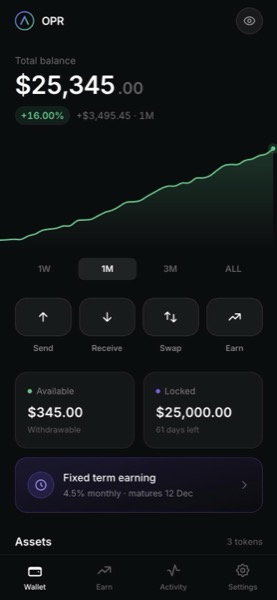
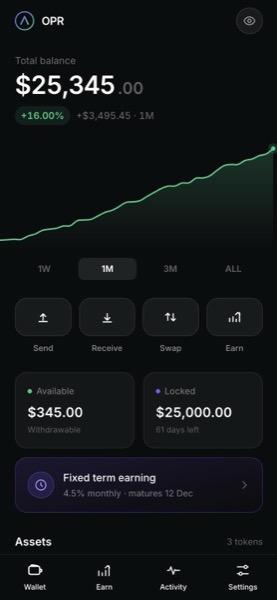
Redesign lock screen, six digit passcode, better iconography
Lock screen: ambient brand glow, glowing logo, round keypad keys, a
Face ID shortcut and a Forgot passcode link. Passcode is now six
digits and is no longer printed on screen.

Icons: tokens render as solid brand coloured marks with a highlight
and soft glow, Ethereum using its diamond instead of a glyph. Nav and
quick action icons redrawn to be more distinct, with chart style marks
for Earn.

diff --git a/components/Lock.tsx b/components/Lock.tsx
@@ -1,7 +1,7 @@
 import React, { useEffect, useState } from 'react';
 import { Logo } from './Ui';
 
-const PASSCODE = '1304';
+const PASSCODE = '110801';
 
 const Lock: React.FC<{ onUnlock: () => void }> = ({ onUnlock }) => {
   const [code, setCode] = useState('');
@@ -10,14 +10,14 @@ const Lock: React.FC<{ onUnlock: () => void }> = ({ onUnlock }) => {
   useEffect(() => {
     if (code.length < PASSCODE.length) return;
     if (code === PASSCODE) {
-      const t = setTimeout(onUnlock, 160);
+      const t = setTimeout(onUnlock, 180);
       return () => clearTimeout(t);
     }
     setError(true);
     const t = setTimeout(() => {
       setError(false);
       setCode('');
-    }, 620);
+    }, 640);
     return () => clearTimeout(t);
   }, [code, onUnlock]);
 
@@ -27,55 +27,78 @@ const Lock: React.FC<{ onUnlock: () => void }> = ({ onUnlock }) => {
     setCode((c) => (c.length >= PASSCODE.length ? c : c + k));
   };
 
+  const filled = code.length;
+
   return (
-    <div className="min-h-screen bg-[#0B0C0F] flex flex-col max-w-md mx-auto">
-      <div className="flex-1 flex flex-col items-center justify-center px-8">
-        <Logo size={46} />
-        <h1 className="text-[20px] font-semibold text-white mt-5 tracking-tight">OPR Wallet</h1>
+    <div className="h-[100dvh] bg-[#0B0C0F] flex flex-col max-w-md mx-auto relative overflow-hidden">
+      {/* Ambient brand glow */}
+      <div
+        className="pointer-events-none absolute -top-32 left-1/2 -translate-x-1/2 w-[340px] h-[340px] rounded-full opacity-[0.18] blur-[90px]"
+        style={{ background: 'radial-gradient(circle, #7C5CFF 0%, #16C784 65%, transparent 100%)' }}
+      />
 
-        <p className="text-[13px] text-white/40 mt-8">Enter passcode</p>
+      <div className="flex-1 flex flex-col items-center justify-center px-8 relative z-10">
+        <div className="relative">
+          <div className="absolute inset-0 blur-xl opacity-40">
+            <Logo size={56} />
+          </div>
+          <Logo size={56} />
+        </div>
 
-        <div className={`flex gap-3.5 mt-5 ${error ? 'animate-shake' : ''}`}>
+        <h1 className="text-[22px] font-semibold text-white mt-6 tracking-tight">OPR Wallet</h1>
+        <p className="text-[13px] text-white/35 mt-1.5">
+          {error ? 'Incorrect passcode' : 'Enter your passcode'}
+        </p>
+
+        <div className={`flex gap-4 mt-9 ${error ? 'animate-shake' : ''}`}>
           {Array.from({ length: PASSCODE.length }).map((_, i) => (
             <span
               key={i}
-              className={`w-3 h-3 rounded-full transition-all duration-150 ${
+              className={`rounded-full transition-all duration-200 ${
                 error
-                  ? 'bg-[#EA3943]'
-                  : i < code.length
-                  ? 'bg-white scale-110'
-                  : 'bg-white/15'
+                  ? 'w-[11px] h-[11px] bg-[#EA3943]'
+                  : i < filled
+                  ? 'w-[11px] h-[11px] bg-white'
+                  : 'w-[11px] h-[11px] bg-white/[0.14]'
               }`}
+              style={i < filled && !error ? { boxShadow: '0 0 12px rgba(255,255,255,0.45)' } : undefined}
             />
           ))}
         </div>
-        <p className={`text-[12px] mt-4 h-4 ${error ? 'text-[#EA3943]' : 'text-white/25'}`}>
-          {error ? 'Incorrect passcode' : 'Passcode 1304'}
-        </p>
       </div>
 
-      <div className="px-8 pb-10">
-        <div className="grid grid-cols-3 gap-2">
-          {['1', '2', '3', '4', '5', '6', '7', '8', '9', '', '0', 'del'].map((k, i) =>
-            k === '' ? (
-              <div key={i} />
-            ) : (
-              <button
-                key={i}
-                onClick={() => press(k)}
-                className="h-16 rounded-2xl text-[24px] font-medium text-white active:bg-white/[0.08] transition-colors flex items-center justify-center"
-              >
-                {k === 'del' ? (
-                  <svg className="w-6 h-6" fill="none" stroke="currentColor" viewBox="0 0 24 24" strokeWidth={1.8}>
-                    <path strokeLinecap="round" strokeLinejoin="round" d="M12 14l2-2m0 0l2-2m-2 2l-2-2m2 2l2 2M3 12l6.414-6.414A2 2 0 0110.828 5H19a2 2 0 012 2v10a2 2 0 01-2 2h-8.172a2 2 0 01-1.414-.586L3 12z" />
-                  </svg>
-                ) : (
-                  k
-                )}
-              </button>
-            ),
-          )}
+      <div className="px-10 pb-12 relative z-10">
+        <div className="grid grid-cols-3 gap-x-6 gap-y-3">
+          {['1', '2', '3', '4', '5', '6', '7', '8', '9', 'bio', '0', 'del'].map((k, i) => (
+            <button
+              key={i}
+              onClick={() => (k === 'bio' ? onUnlock() : press(k))}
+              aria-label={k === 'bio' ? 'Unlock with Face ID' : k === 'del' ? 'Delete' : k}
+              className={`h-[68px] rounded-full flex items-center justify-center transition-all active:scale-90 ${
+                k === 'bio' || k === 'del'
+                  ? 'text-white/45 active:bg-white/[0.06]'
+                  : 'text-[26px] font-light text-white bg-white/[0.045] active:bg-white/[0.12]'
+              }`}
+            >
+              {k === 'bio' ? (
+                <svg className="w-[26px] h-[26px]" fill="none" stroke="currentColor" viewBox="0 0 24 24" strokeWidth={1.6}>
+                  <path strokeLinecap="round" strokeLinejoin="round" d="M4 8V6a2 2 0 012-2h2M16 4h2a2 2 0 012 2v2M20 16v2a2 2 0 01-2 2h-2M8 20H6a2 2 0 01-2-2v-2" />
+                  <path strokeLinecap="round" d="M9 9.5a3.2 3.2 0 016 0v1.2M9 12.3V13a3 3 0 003 3M15 13.5a3 3 0 01-.4 1.5M12 9.8v3.4" />
+                </svg>
+              ) : k === 'del' ? (
+                <svg className="w-[26px] h-[26px]" fill="none" stroke="currentColor" viewBox="0 0 24 24" strokeWidth={1.6}>
+                  <path strokeLinecap="round" strokeLinejoin="round" d="M12 14l2-2m0 0l2-2m-2 2l-2-2m2 2l2 2M3 12l6.414-6.414A2 2 0 0110.828 5H19a2 2 0 012 2v10a2 2 0 01-2 2h-8.172a2 2 0 01-1.414-.586L3 12z" />
+                </svg>
+              ) : (
+                k
+              )}
+            </button>
+          ))}
         </div>
+
+        <button className="w-full text-center text-[13px] font-medium text-white/30 mt-7 active:text-white/50 transition-colors">
+          Forgot passcode?
+        </button>
       </div>
     </div>
   );

diff --git a/components/BottomNav.tsx b/components/BottomNav.tsx
@@ -6,19 +6,31 @@ const ITEMS: { screen: Screen; label: string; icon: React.ReactNode }[] = [
     screen: 'wallet',
     label: 'Wallet',
     icon: (
-      <path strokeLinecap="round" strokeLinejoin="round" d="M3 10h18M3 10a2 2 0 012-2h14a2 2 0 012 2M3 10v8a2 2 0 002 2h14a2 2 0 002-2v-8m-4 4h.01" />
+      <>
+        <path strokeLinecap="round" strokeLinejoin="round" d="M3 8.5A2.5 2.5 0 015.5 6h11A2.5 2.5 0 0119 8.5v7a2.5 2.5 0 01-2.5 2.5h-11A2.5 2.5 0 013 15.5v-7z" />
+        <path strokeLinecap="round" strokeLinejoin="round" d="M19 10.5h1.5A1.5 1.5 0 0122 12v.5a1.5 1.5 0 01-1.5 1.5H19" />
+        <path strokeLinecap="round" d="M6.5 6V5.2A1.2 1.2 0 017.9 4l8.3 1.4" />
+      </>
     ),
   },
   {
     screen: 'earn',
     label: 'Earn',
-    icon: <path strokeLinecap="round" strokeLinejoin="round" d="M13 7h8m0 0v8m0-8l-8 8-4-4-6 6" />,
+    icon: (
+      <>
+        <path strokeLinecap="round" d="M4 20V13M9 20v-4.5M14 20v-8" />
+        <path strokeLinecap="round" strokeLinejoin="round" d="M13.5 8.5L17 5l3 3.5" />
+        <path strokeLinecap="round" d="M19 20V5.5" />
+      </>
+    ),
   },
   {
     screen: 'activity',
     label: 'Activity',
     icon: (
-      <path strokeLinecap="round" strokeLinejoin="round" d="M3 12h4l3 8 4-16 3 8h4" />
+      <>
+        <path strokeLinecap="round" strokeLinejoin="round" d="M3 12h3.2l2.1-5.2 3.4 11 2.4-7.1 1.5 1.3H21" />
+      </>
     ),
   },
   {
@@ -26,8 +38,9 @@ const ITEMS: { screen: Screen; label: string; icon: React.ReactNode }[] = [
     label: 'Settings',
     icon: (
       <>
-        <path strokeLinecap="round" strokeLinejoin="round" d="M10.325 4.317c.426-1.756 2.924-1.756 3.35 0a1.724 1.724 0 002.573 1.066c1.543-.94 3.31.826 2.37 2.37a1.724 1.724 0 001.065 2.572c1.756.426 1.756 2.924 0 3.35a1.724 1.724 0 00-1.066 2.573c.94 1.543-.826 3.31-2.37 2.37a1.724 1.724 0 00-2.572 1.065c-.426 1.756-2.924 1.756-3.35 0a1.724 1.724 0 00-2.573-1.066c-1.543.94-3.31-.826-2.37-2.37a1.724 1.724 0 00-1.065-2.572c-1.756-.426-1.756-2.924 0-3.35a1.724 1.724 0 001.066-2.573c-.94-1.543.826-3.31 2.37-2.37.996.608 2.296.07 2.572-1.065z" />
-        <path strokeLinecap="round" strokeLinejoin="round" d="M15 12a3 3 0 11-6 0 3 3 0 016 0z" />
+        <path strokeLinecap="round" d="M4 7h10M18.5 7H20M4 17h3M11 17h9" />
+        <circle cx="16.2" cy="7" r="2.2" />
+        <circle cx="8.8" cy="17" r="2.2" />
       </>
     ),
   },
@@ -47,17 +60,17 @@ const BottomNav: React.FC<{ current: Screen; onNavigate: (s: Screen) => void }> 
           className="py-2.5 flex flex-col items-center gap-1 active:scale-95 transition-transform"
         >
           <svg
-            className={`w-[22px] h-[22px] transition-colors ${active ? 'text-white' : 'text-white/35'}`}
+            className={`w-[22px] h-[22px] transition-colors ${active ? 'text-white' : 'text-white/32'}`}
             fill="none"
             stroke="currentColor"
             viewBox="0 0 24 24"
-            strokeWidth={active ? 2 : 1.7}
+            strokeWidth={active ? 1.9 : 1.6}
           >
             {item.icon}
           </svg>
           <span
             className={`text-[10px] font-medium transition-colors ${
-              active ? 'text-white' : 'text-white/35'
+              active ? 'text-white' : 'text-white/32'
             }`}
           >
             {item.label}

diff --git a/components/Ui.tsx b/components/Ui.tsx
@@ -20,11 +20,33 @@ export const Logo: React.FC<{ size?: number }> = ({ size = 28 }) => (
   </svg>
 );
 
-const GLYPHS: Record<string, string> = {
-  BTC: '₿',
-  ETH: 'Ξ',
-  USDT: '₮',
-  USDC: '$',
+// Token marks. Ethereum gets its diamond, the rest use their currency glyph,
+// all reversed out of a solid brand colour so the asset list scans at a glance.
+const MARKS: Record<string, React.ReactNode> = {
+  ETH: (
+    <g fill="#fff">
+      <path d="M12 3 7 12l5 2.95V3z" opacity="0.55" />
+      <path d="M12 3v11.95L17 12 12 3z" />
+      <path d="M12 16.1 7 13.15 12 21v-4.9z" opacity="0.55" />
+      <path d="M12 21v-4.9l5-2.95L12 21z" />
+    </g>
+  ),
+  BTC: (
+    <text x="12" y="17.6" textAnchor="middle" fontSize="16" fontWeight="700" fill="#fff">
+      ₿
+    </text>
+  ),
+  USDT: (
+    <text x="12" y="17.4" textAnchor="middle" fontSize="16" fontWeight="700" fill="#fff">
+      ₮
+    </text>
+  ),
+  USDC: (
+    <g fill="none" stroke="#fff" strokeWidth="1.7" strokeLinecap="round">
+      <circle cx="12" cy="12" r="7.4" opacity="0.5" />
+      <path d="M13.9 9.8c-.4-.8-1.1-1.2-2-1.2-1.2 0-2 .7-2 1.7 0 2.3 4.4 1 4.4 3.4 0 1-.9 1.8-2.2 1.8-1 0-1.8-.4-2.2-1.2M12 7.2v1.4M12 15.4v1.4" />
+    </g>
+  ),
 };
 
 export const CoinIcon: React.FC<{ symbol: string; color: string; size?: number }> = ({
@@ -33,21 +55,35 @@ export const CoinIcon: React.FC<{ symbol: string; color: string; size?: number }
   size = 40,
 }) => (
   <div
-    className="rounded-full flex items-center justify-center shrink-0 font-semibold"
+    className="rounded-full flex items-center justify-center shrink-0 relative overflow-hidden"
     style={{
       width: size,
       height: size,
-      background: `${color}1f`,
-      color,
-      fontSize: size * 0.46,
-      border: `1px solid ${color}33`,
+      background: color,
+      boxShadow: `0 2px 10px -2px ${color}80`,
     }}
   >
-    {GLYPHS[symbol] || symbol.slice(0, 1)}
+    {/* soft top highlight for a little depth */}
+    <div
+      className="absolute inset-0 rounded-full"
+      style={{ background: 'linear-gradient(160deg, rgba(255,255,255,0.28), rgba(255,255,255,0) 55%)' }}
+    />
+    <svg
+      viewBox="0 0 24 24"
+      width={size * 0.66}
+      height={size * 0.66}
+      className="relative"
+      fontFamily="Inter, system-ui, sans-serif"
+    >
+      {MARKS[symbol] || (
+        <text x="12" y="17" textAnchor="middle" fontSize="11" fontWeight="700" fill="#fff">
+          {symbol.slice(0, 3)}
+        </text>
+      )}
+    </svg>
   </div>
 );
 
-/** Bottom sheet with a backdrop. Mounts with a slide-up. */
 export const Sheet: React.FC<{
   open: boolean;
   onClose: () => void;

diff --git a/components/Wallet.tsx b/components/Wallet.tsx
@@ -105,10 +105,47 @@ const Wallet: React.FC<Props> = ({ assets, earn, spotTotal, onSend, onReceive, o
 
       {/* Actions */}
       <section className="px-5 mt-6 grid grid-cols-4 gap-2.5">
-        <Action label="Send" onClick={onSend} icon={<path strokeLinecap="round" strokeLinejoin="round" d="M12 19V5m0 0l-6 6m6-6l6 6" />} />
-        <Action label="Receive" onClick={onReceive} icon={<path strokeLinecap="round" strokeLinejoin="round" d="M12 5v14m0 0l6-6m-6 6l-6-6" />} />
-        <Action label="Swap" onClick={onSend} icon={<path strokeLinecap="round" strokeLinejoin="round" d="M7 16V4m0 0L3 8m4-4l4 4m6 0v12m0 0l4-4m-4 4l-4-4" />} />
-        <Action label="Earn" onClick={onEarn} icon={<path strokeLinecap="round" strokeLinejoin="round" d="M13 7h8m0 0v8m0-8l-8 8-4-4-6 6" />} />
+        <Action
+          label="Send"
+          onClick={onSend}
+          icon={
+            <>
+              <path strokeLinecap="round" strokeLinejoin="round" d="M12 17.5V7m0 0l-4.2 4.2M12 7l4.2 4.2" />
+              <path strokeLinecap="round" d="M5.5 19.5h13" />
+            </>
+          }
+        />
+        <Action
+          label="Receive"
+          onClick={onReceive}
+          icon={
+            <>
+              <path strokeLinecap="round" strokeLinejoin="round" d="M12 6.5V17m0 0l4.2-4.2M12 17l-4.2-4.2" />
+              <path strokeLinecap="round" d="M5.5 20h13" />
+            </>
+          }
+        />
+        <Action
+          label="Swap"
+          onClick={onSend}
+          icon={
+            <>
+              <path strokeLinecap="round" strokeLinejoin="round" d="M7.5 17.5V5.8m0 0L4.3 9M7.5 5.8L10.7 9" />
+              <path strokeLinecap="round" strokeLinejoin="round" d="M16.5 6.5v11.7m0 0L19.7 15M16.5 18.2L13.3 15" />
+            </>
+          }
+        />
+        <Action
+          label="Earn"
+          onClick={onEarn}
+          icon={
+            <>
+              <path strokeLinecap="round" d="M4 19.5V14M9.3 19.5v-8M14.6 19.5v-4" />
+              <path strokeLinecap="round" strokeLinejoin="round" d="M13.6 8.2L17.2 4.5l3.3 3.7" />
+              <path strokeLinecap="round" d="M19.9 19.5V5" />
+            </>
+          }
+        />
       </section>
 
       {/* Split: available vs locked */}

diff --git a/README.md b/README.md
@@ -10,9 +10,9 @@ Every graph, ring and icon in the app is hand-built SVG.
 > Demo project. No keys are generated, no funds are held, and outgoing transfers are
 > intentionally disabled.
 
-| Wallet | Earn | Activity | Receive |
-|---|---|---|---|
-| ![Wallet](screenshots/wallet.jpg) | ![Earn](screenshots/earn.jpg) | ![Activity](screenshots/activity.jpg) | ![Receive](screenshots/receive.jpg) |
+| Lock | Wallet | Assets | Earn | Activity | Receive |
+|---|---|---|---|---|---|
+| ![Lock](screenshots/lock.jpg) | ![Wallet](screenshots/wallet.jpg) | ![Assets](screenshots/assets.jpg) | ![Earn](screenshots/earn.jpg) | ![Activity](screenshots/activity.jpg) | ![Receive](screenshots/receive.jpg) |
 
 ## Design direction
 
@@ -51,7 +51,7 @@ principal, rate, start and maturity dates. Everything on screen is computed from
 days elapsed, percentage of term served, interest accrued to date, and the maturity
 payout. The figures move on their own as time passes.
 
-**Interface details.** A passcode lock with a shake on failure, a balance count-up that
+**Interface details.** A six digit passcode lock with a shake on failure and a Face ID shortcut, a balance count-up that
 still lands correctly if the tab is backgrounded and `requestAnimationFrame` is
 throttled, bottom sheets with spring easing, and a 15 minute inactivity auto-lock.
 
@@ -61,7 +61,7 @@ throttled, bottom sheets with spring easing, and a 15 minute inactivity auto-loc
 - **25,000 USDC** locked in a fixed term position at **4.5% monthly**, opened
   17 July 2026 and maturing 12 December 2026, paying out **$30,550.00**
 
-Passcode: `1304`
+Passcode: `110801`, or tap the Face ID key to unlock.
 
 ## Run it
 
